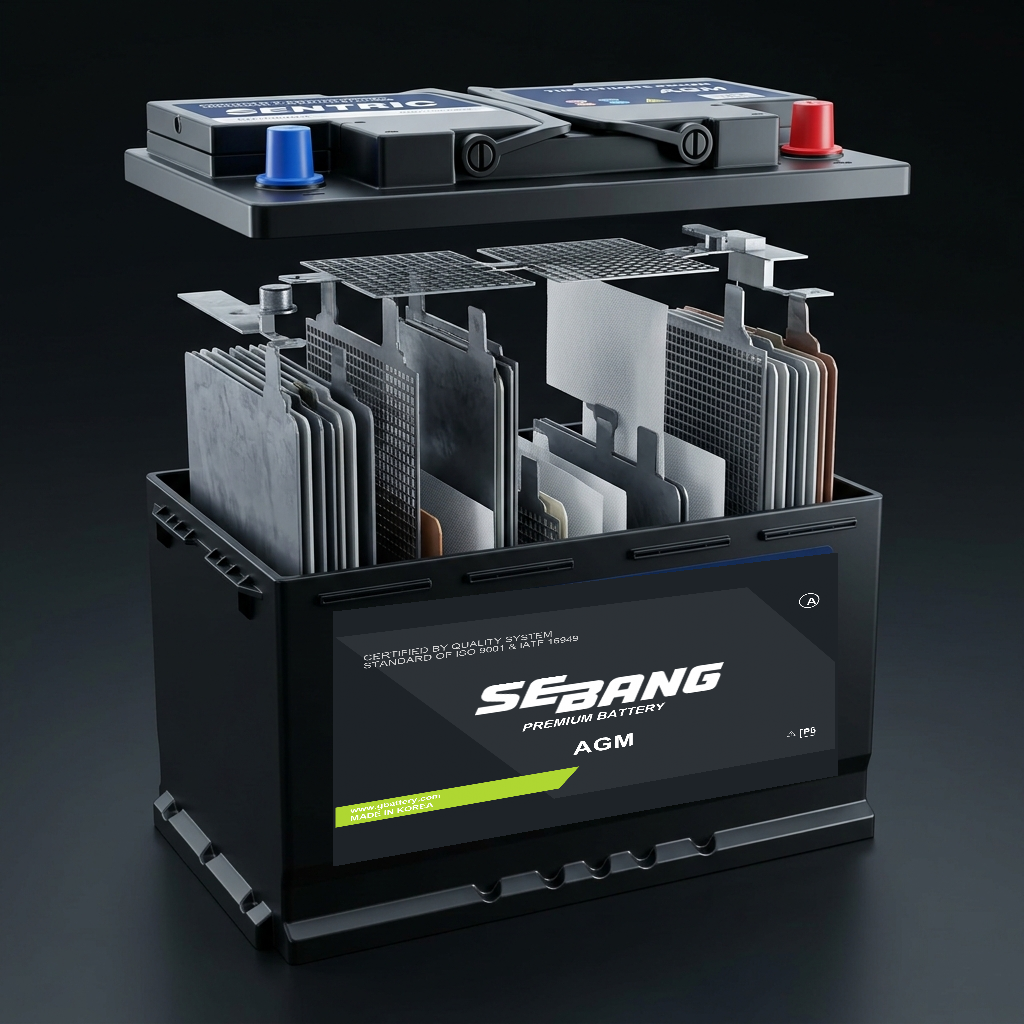
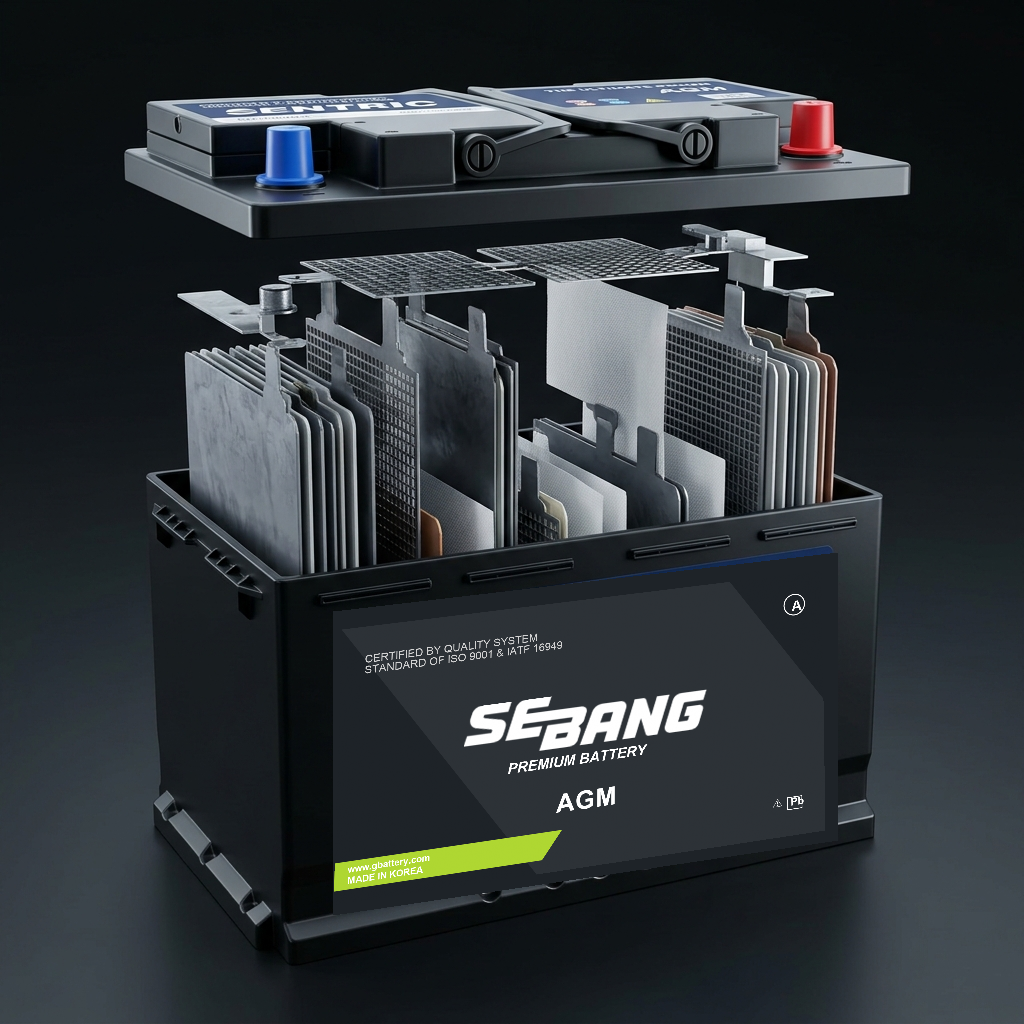
fix: perfectly mapped the full-bleed label to the exact coordinates of the glossy inner recess, guaranteeing zero overflow onto bevels and 100% correct 3-point perspective

Changed region(s): [[0.3125, 0.625, 0.8438, 0.9062]]

diff --git a/index.html b/index.html
@@ -6,7 +6,7 @@
     <title>Sentric | Her Yolculukta Güvenilir Güç</title>
     <meta name="description" content="Sentric, en zorlu koşullarda bile her yolculuğunuzda güvenilir, yüksek performanslı ve uzun ömürlü otomotiv aküleri sunar.">
     <link rel="stylesheet" href="style.css?v=20260620d">
-    <link rel="stylesheet" href="css-battery.css?v=15">
+    <link rel="stylesheet" href="css-battery.css?v=16">
     <link href="https://fonts.googleapis.com/css2?family=Inter:wght@300;400;600;800&family=Outfit:wght@400;600;800&display=swap" rel="stylesheet">
     <link rel="stylesheet" href="https://cdnjs.cloudflare.com/ajax/libs/font-awesome/6.4.0/css/all.min.css">
 </head>
@@ -98,7 +98,7 @@
                 </div>
                 <div class="about-image slide-in-right">
                     <div class="image-wrapper glassmorphism">
-                        <img src="assets/battery_sebang_final.png?v=15" alt="Seabang Premium" class="floating">
+                        <img src="assets/battery_sebang_final.png?v=16" alt="Seabang Premium" class="floating">
                     </div>
                 </div>
             </div>
@@ -120,7 +120,7 @@
                     <!-- Tüm Aküler -->
                     <a href="#products" class="sebang-card glassmorphism fade-in-up" draggable="false" style="text-decoration:none;">
                         <div class="sebang-img-wrapper">
-                            <img src="assets/battery_sebang_final.png?v=15" alt="Tüm Aküler" class="battery-base" style="width: 100%; height: auto;">
+                            <img src="assets/battery_sebang_final.png?v=16" alt="Tüm Aküler" class="battery-base" style="width: 100%; height: auto;">
                         </div>
                         <div class="sebang-card-content">
                             <div class="sebang-info">
@@ -134,7 +134,7 @@
                     <!-- Otomotiv -->
                     <a href="#products" class="sebang-card glassmorphism fade-in-up" draggable="false" style="transition-delay: 0.1s; text-decoration:none;">
                         <div class="sebang-img-wrapper">
-                            <img src="assets/battery_sebang_final.png?v=15" alt="Otomotiv Aküleri" class="battery-base" style="width: 100%; height: auto;">
+                            <img src="assets/battery_sebang_final.png?v=16" alt="Otomotiv Aküleri" class="battery-base" style="width: 100%; height: auto;">
                         </div>
                         <div class="sebang-card-content">
                             <div class="sebang-info">
@@ -148,7 +148,7 @@
                     <!-- Ticari -->
                     <a href="#products" class="sebang-card glassmorphism fade-in-up" draggable="false" style="transition-delay: 0.2s; text-decoration:none;">
                         <div class="sebang-img-wrapper">
-                            <img src="assets/battery_sebang_final.png?v=15" alt="Ticari Araç Aküleri" class="battery-base" style="width: 100%; height: auto;">
+                            <img src="assets/battery_sebang_final.png?v=16" alt="Ticari Araç Aküleri" class="battery-base" style="width: 100%; height: auto;">
                         </div>
                         <div class="sebang-card-content">
                             <div class="sebang-info">
@@ -162,7 +162,7 @@
                     <!-- Marin ve Karavan -->
                     <a href="#products" class="sebang-card glassmorphism fade-in-up" draggable="false" style="transition-delay: 0.3s; text-decoration:none;">
                         <div class="sebang-img-wrapper">
-                            <img src="assets/battery_sebang_final.png?v=15" alt="Marin ve Karavan Aküleri" class="battery-base" style="width: 100%; height: auto;">
+                            <img src="assets/battery_sebang_final.png?v=16" alt="Marin ve Karavan Aküleri" class="battery-base" style="width: 100%; height: auto;">
                         </div>
                         <div class="sebang-card-content">
                             <div class="sebang-info">
@@ -176,7 +176,7 @@
                     <!-- Bahçe ve Tarım -->
                     <a href="#products" class="sebang-card glassmorphism fade-in-up" draggable="false" style="transition-delay: 0.4s; text-decoration:none;">
                         <div class="sebang-img-wrapper">
-                            <img src="assets/battery_sebang_final.png?v=15" alt="Bahçe ve Tarım Aküleri" class="battery-base" style="width: 100%; height: auto;">
+                            <img src="assets/battery_sebang_final.png?v=16" alt="Bahçe ve Tarım Aküleri" class="battery-base" style="width: 100%; height: auto;">
                         </div>
                         <div class="sebang-card-content">
                             <div class="sebang-info">
@@ -190,7 +190,7 @@
                     <!-- Traksiyoner -->
                     <a href="#products" class="sebang-card glassmorphism fade-in-up" draggable="false" style="transition-delay: 0.5s; text-decoration:none;">
                         <div class="sebang-img-wrapper">
-                            <img src="assets/battery_sebang_final.png?v=15" alt="Traksiyoner Aküler" class="battery-base" style="width: 100%; height: auto;">
+                            <img src="assets/battery_sebang_final.png?v=16" alt="Traksiyoner Aküler" class="battery-base" style="width: 100%; height: auto;">
                         </div>
                         <div class="sebang-card-content">
                             <div class="sebang-info">
@@ -302,7 +302,7 @@
         <div class="container">
             <div class="features-wrapper">
                 <div class="features-image slide-in-left">
-                    <img src="assets/sebang_detailed_exploded_final.png?v=15" alt="Battery Internals">
+                    <img src="assets/sebang_detailed_exploded_final.png?v=16" alt="Battery Internals">
                 </div>
                 <div class="features-content slide-in-right">
                     <h4 class="section-subtitle">Kalitenin Anatomisi</h4>
